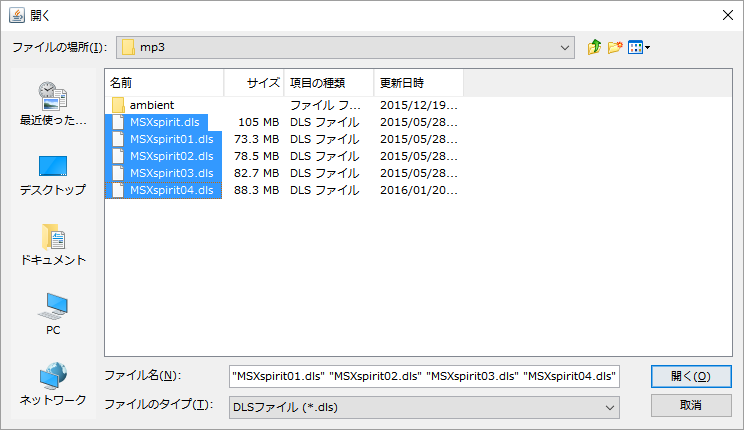
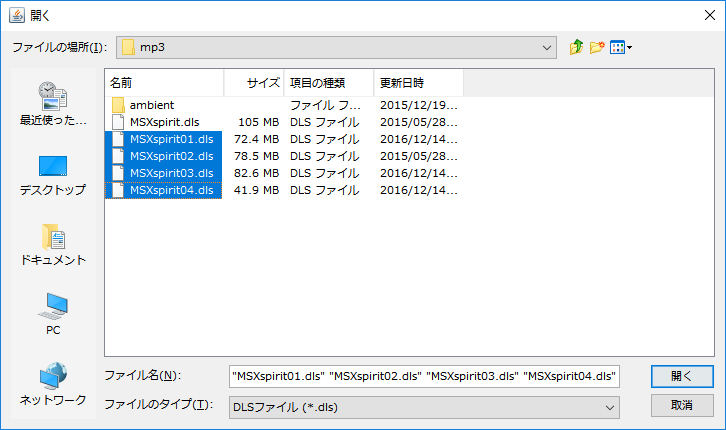
doc: dls選択画面のSS修正, midiファイル読み取り時の動作修正.

diff --git a/src/fourthline/mmlTools/parser/MidiFile.java b/src/fourthline/mmlTools/parser/MidiFile.java
@@ -53,7 +53,11 @@ public final class MidiFile implements IMMLFileParser {
 		}
 
 		score.getTempoEventList().addAll(tempoList);
-		return score;
+		try {
+			return score.generateAll();
+		} catch (UndefinedTickException e) {
+			return score;
+		}
 	}
 
 	private HashMap<Integer, MMLNoteEvent> activeNoteMap = new HashMap<>();
@@ -109,11 +113,11 @@ public final class MidiFile implements IMMLFileParser {
 		ArrayList<MMLEventList> mmlEventList = createMMLEventList();
 
 		// MMLEventListのリストを使ってトラックを生成.
-		createMMLTrack(mmlEventList, trackInfo);
 		System.out.printf(" ###### track tick: %d %d => %d\n",
 				activeNoteMap.size(),
 				curNoteList.size(),
 				mmlEventList.size());
+		createMMLTrack(mmlEventList, trackInfo);
 	}
 
 	/**
@@ -188,8 +192,8 @@ public final class MidiFile implements IMMLFileParser {
 			break;
 		case 3: // シーケンス名/トラック名
 			String name = new String(data);
-			trackInfo.name = name;
 			System.out.println("Name: "+name);
+			break;
 		case 1: // テキストイベント
 		case 2: // 著作権表示
 		case 4: // 楽器名

diff --git a/src/fourthline/mmlTools/MMLScore.java b/src/fourthline/mmlTools/MMLScore.java
@@ -380,9 +380,12 @@ public final class MMLScore implements IMMLFileParser {
 		markerList.clear();
 		for (String s : contents.split("\n")) {
 			// <tickOffset>=<name>
-			String tickString = s.substring(0, s.indexOf('='));
-			String name = s.substring(s.indexOf('=')+1);
-			markerList.add( new Marker(name, Integer.parseInt(tickString)) );
+			int index = s.indexOf('=');
+			if (index > 0) {
+				String tickString = s.substring(0, index);
+				String name = s.substring(index+1);
+				markerList.add( new Marker(name, Integer.parseInt(tickString)) );
+			}
 		}
 	}
 
